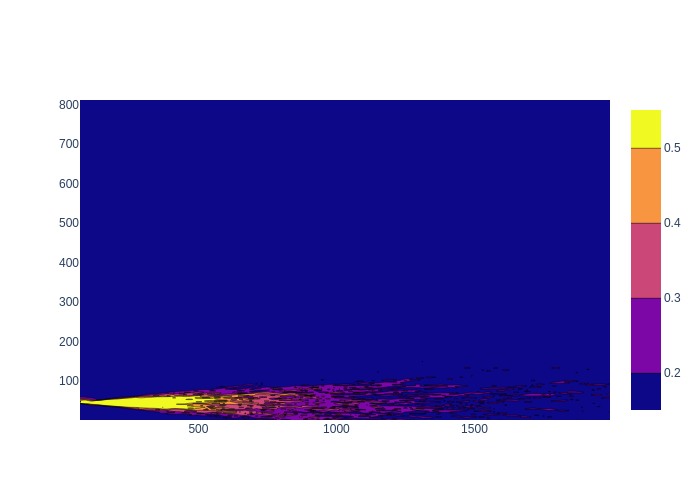
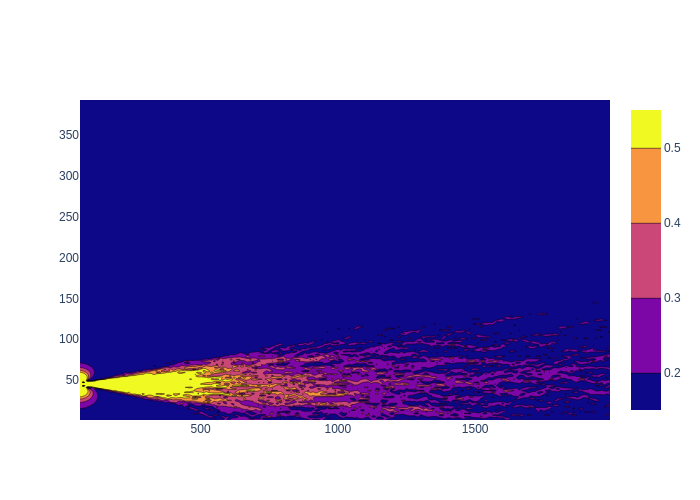
0.4

diff --git a/Übung_3/ubung3.py b/Übung_3/ubung3.py
@@ -17,7 +17,7 @@ xgrenz= np.float64(2000)# !m
 
 ges=[]
 tl = np.float64(100)  #s Zeit
-dt = np.float64(4) # Zeitschritt
+dt = np.float64(2) # Zeitschritt
 sigu= np.float64(0) #m/s
 sigw= np.float64(0.39) #m/s
 rl= math.exp(- dt/tl)
@@ -166,7 +166,7 @@ print(max(cplot))
 fig = go.Figure(data =
     go.Contour(
         z=cplot,
-        x=xplot, # horizontal axis
+        x=xplot,#.insert(, # horizontal axis
         y=zplot, # vertical axis
         contours=dict(
             start=0.2,

diff --git a/Übung_2/bessererdp.py b/Übung_2/bessererdp.py
@@ -17,7 +17,7 @@ xgrenz= np.float64(2000)# !m
 
 ges=[]
 tl = np.float64(100)  #s Zeit
-dt = np.float64(4) # Zeitschritt
+dt = np.float64(0.4) # Zeitschritt
 sigu= np.float64(0) #m/s
 sigw= np.float64(0.39) #m/s
 rl= math.exp(- dt/tl)
